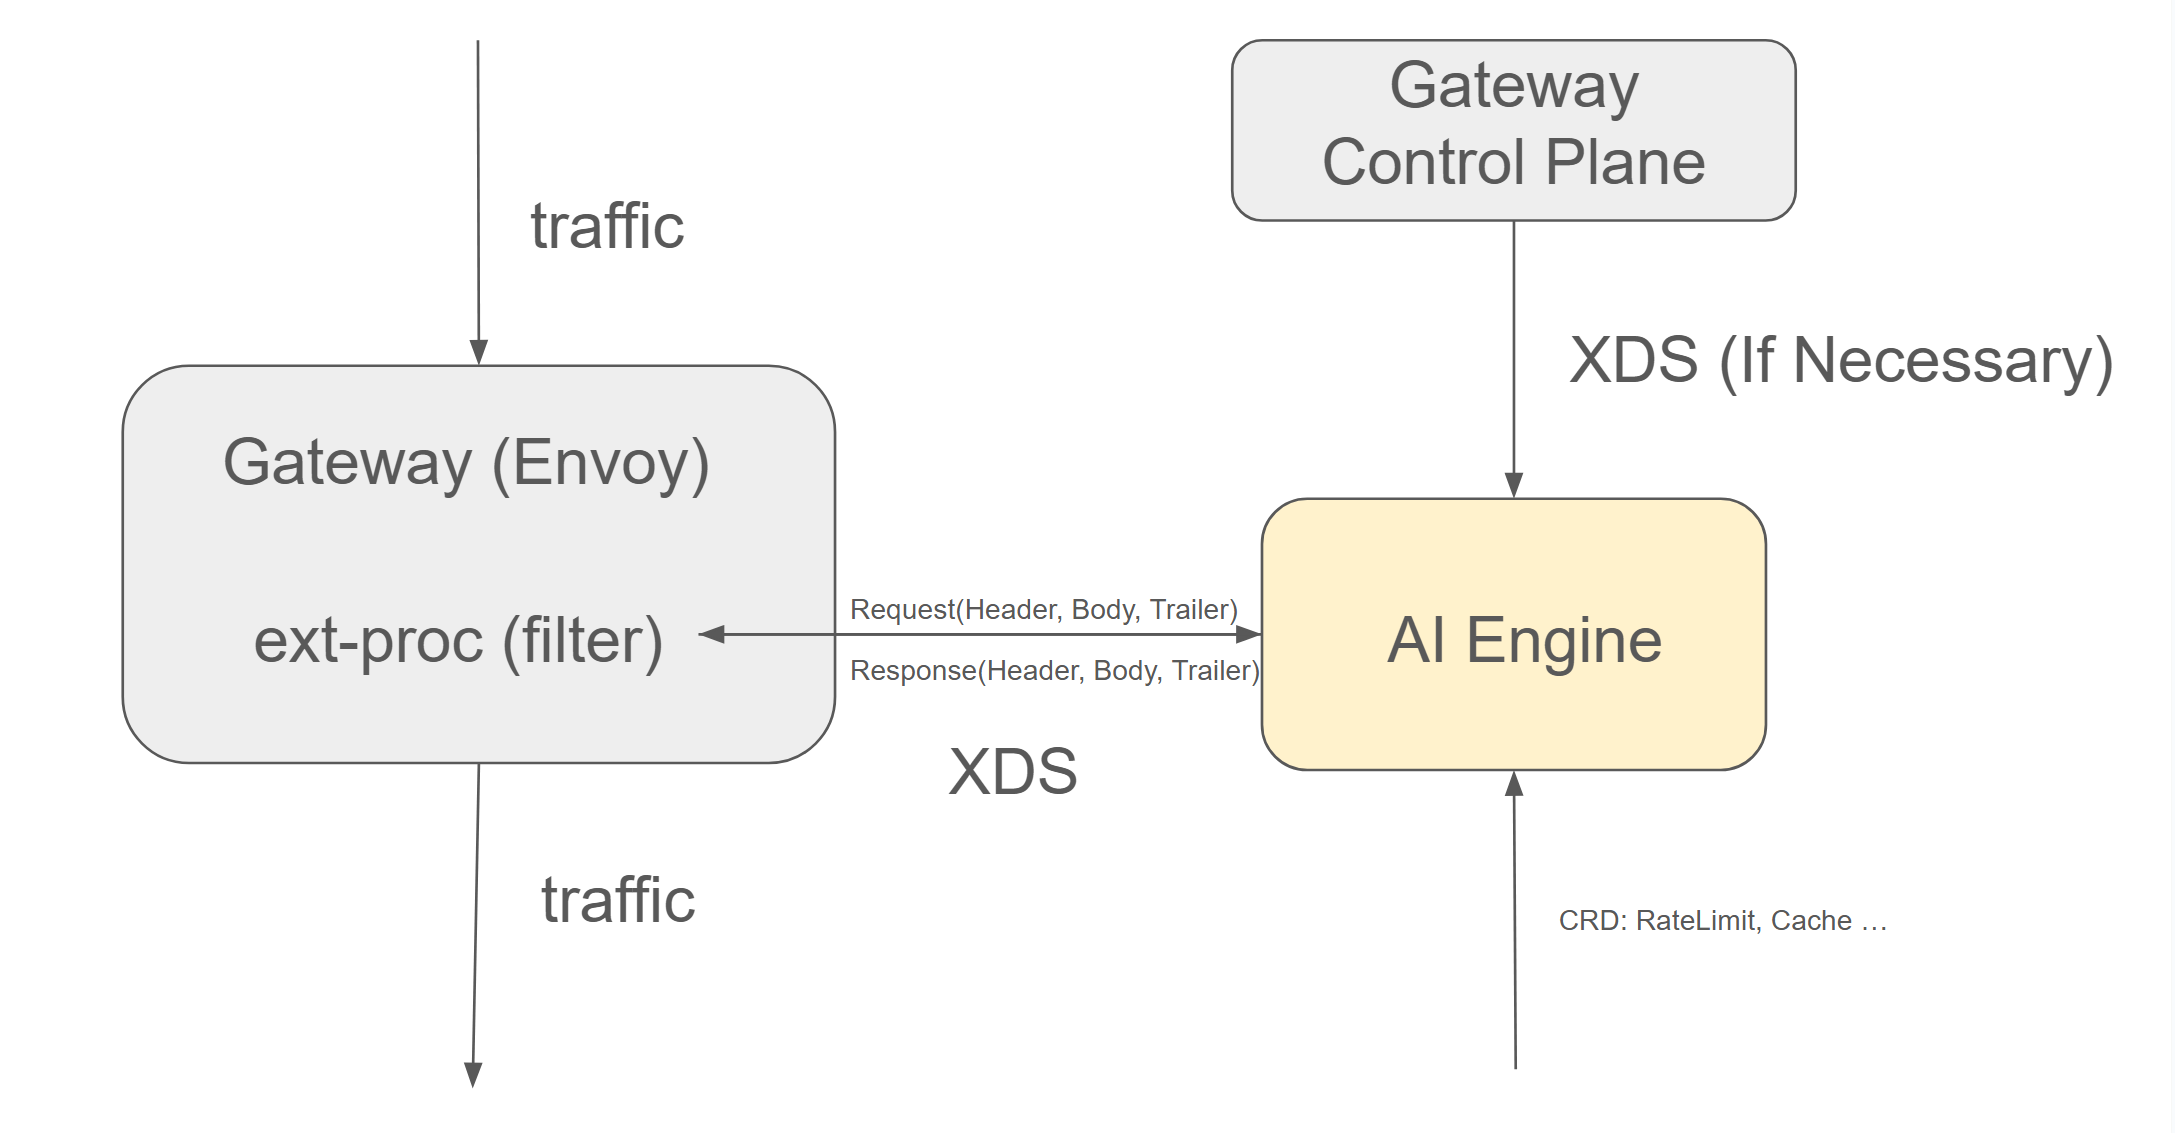
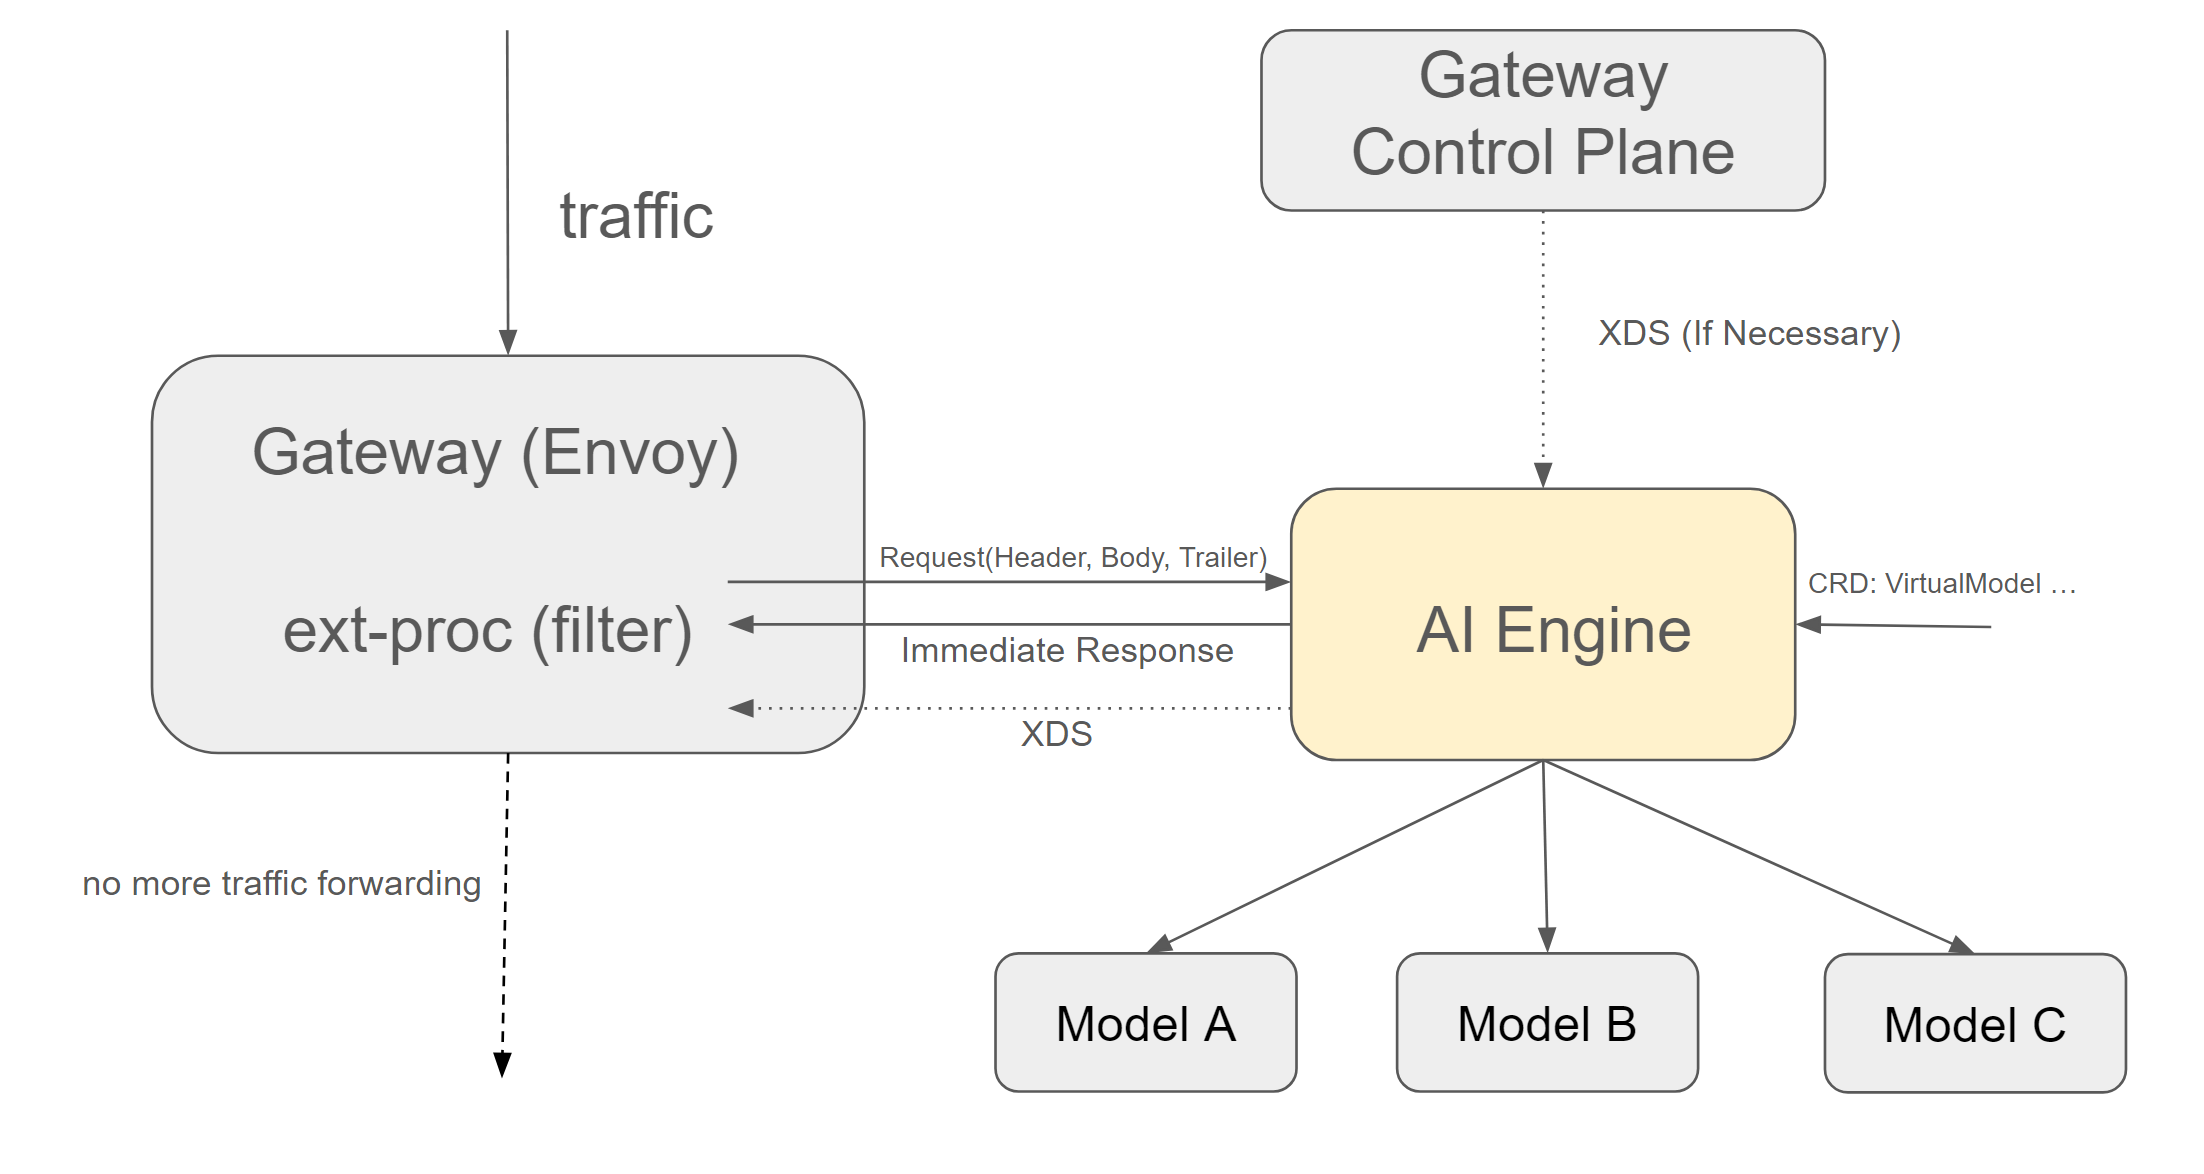
virtual model support

diff --git a/docs/proposal/AI-gateway.md b/docs/proposal/AI-gateway.md
@@ -63,6 +63,9 @@ So we finally chose Envoy's [External Processing Filter](https://www.envoyproxy.
 
 In this way, our AI plugin can be built as an external independent service and can be deployed on demand when AI traffic needs to be processed. At the same time, we can use any dev language, not necessarily C++. Of course, we use Golang. Also it is isolated from the complexity of Envoy to greatest extent, and only needs to process traffic requests/responses from gRPC connections. This fully ensures that development is simple, flexible and friendly.
 
+For functions like rate limit, we only need to handle them during the traffic forwarding process, so we can use `External Processing Filter` in the usual way. However, for advanced traffic management functions, such as traffic splitting, traffic failover and even for AI traffic, we sometimes hope to select the best answer from the responses of multiple LLM models. This involves routing decision in `External Processing Filter` and need to override the original routing in Envoy, because `Route Filter` is always the last filter in Envoy. It also involves retries between multiple clusters and Envoy generally only supports retries between multiple endpoints in a cluster. It is even more impossible for Envoy to send a request to multiple backends at the same time and filter the responses.
+
+
 #### AI Plugin CRD
 
 We need to rely on CRD to describe the config related to AI traffic management. The config consists of the following two parts:
